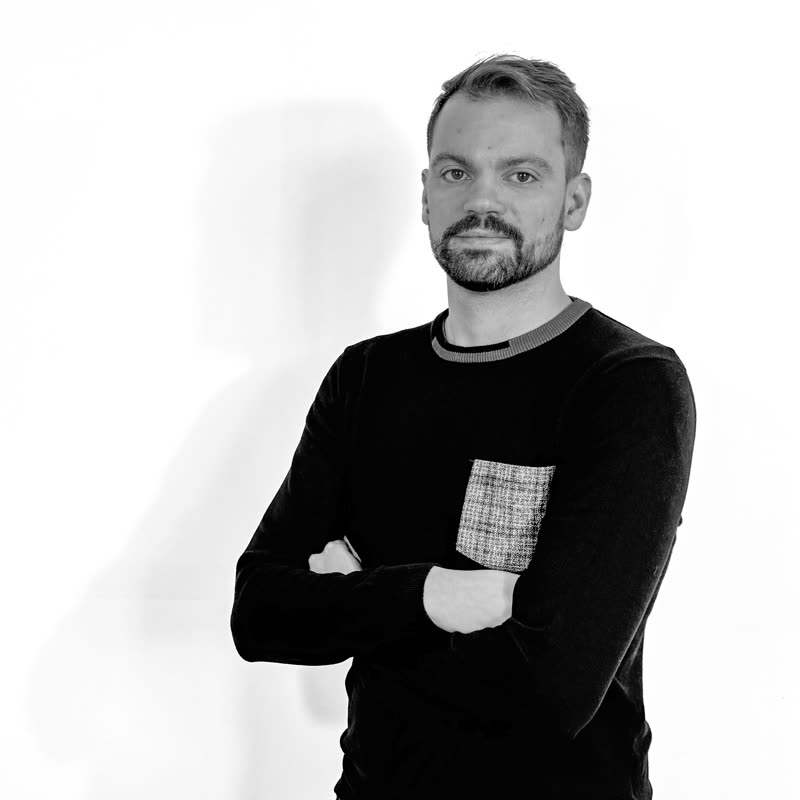
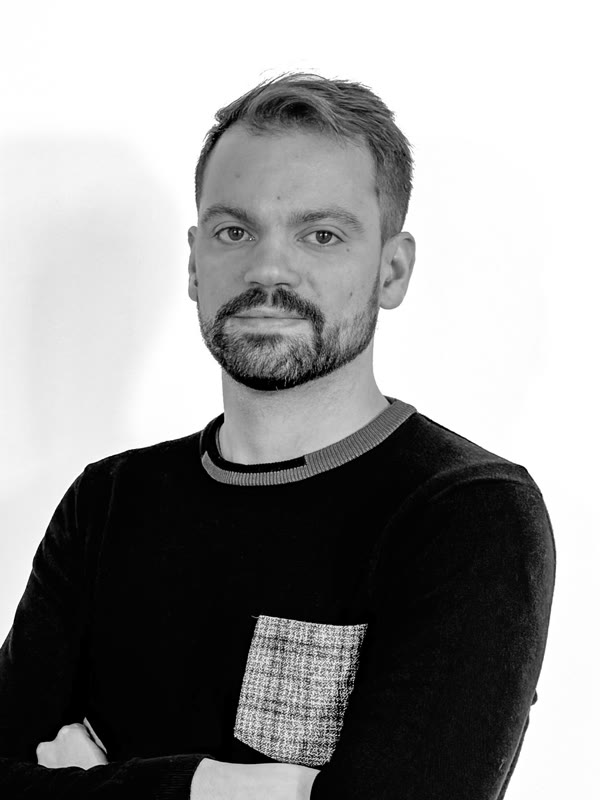
fix: crop the portraits to head and shoulders
The photographs on the studio page looked out of focus. They were not:
the originals are two thousand pixels square and the optimiser was
delivering 256 for a 112 slot, which is right. The problem was the
framing. Each portrait is a half-length shot with a lot of white around
it, so inside a small frame the face came out about twenty pixels across,
and that reads as blur.

They are recut from the originals to a three by four head-and-shoulders
frame. The subject is found by reading the pixels rather than with
cropdetect, which cannot cope with the off-white of a JPEG: the image is
reduced to a grey thumbnail and the first and last rows and columns
holding anything darker than paper give the box. The crop is then built
around the head, roughly three heads wide with some air above the hair,
because the full subject box includes the folded arms and is nearly as
wide as the picture.

The face is now about twice the size at the same display size, and the
anchor to the top is gone, since a three by four source in a three by
four frame has nothing left to crop.

Claude-Session: https://claude.ai/code/session_014bDJGnP2KxVqKN7dXJC8S1

diff --git a/app/studio/page.tsx b/app/studio/page.tsx
@@ -52,7 +52,7 @@ export default function StudioPage() {
                     alt={`Ritratto di ${persona.name}`}
                     fill
                     sizes="112px"
-                    className="object-cover object-top"
+                    className="object-cover"
                   />
                 </div>
                 <h3 className="font-medium text-grafite">{persona.name}</h3>
@@ -80,7 +80,7 @@ export default function StudioPage() {
                     alt={`Ritratto di ${persona.name}`}
                     fill
                     sizes="112px"
-                    className="object-cover object-top"
+                    className="object-cover"
                   />
                 </div>
                 <h3 className="font-medium text-grafite">{persona.name}</h3>

diff --git a/lib/team.ts b/lib/team.ts
@@ -19,7 +19,12 @@ export interface Persona {
   role: string;
   founder: boolean;
   office: "Pescara" | "Castel di Sangro" | null;
-  /** Ritratto in bianco e nero su fondo bianco, dal set dello studio. */
+  /**
+   * Ritratto in bianco e nero su fondo bianco, dal set dello studio,
+   * ritagliato a mezzo busto: gli originali sono quadrati a mezza figura e
+   * dentro un riquadro da poco piu' di cento pixel la faccia diventava
+   * illeggibile.
+   */
   photo: string;
   bio: string;
 }
